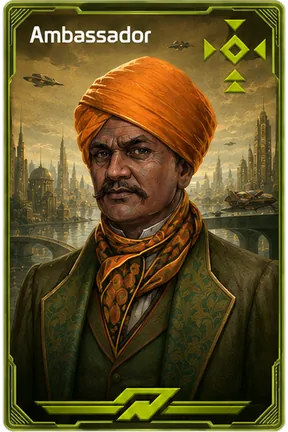
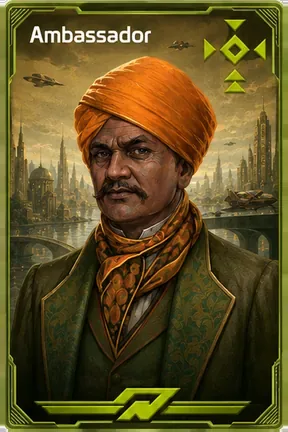
fix: sheet-cut damage on every edge, not just the right one
The background seam was chased three times and each pass only looked at the
RIGHT edge, because that is where it was first reported. A global sweep of all
four edges across every asset class found the same damage on axes nobody had
checked: Saturn backgrounds with an anomalous top or bottom ROW, all five card
faces with 1 px columns on both sides, and the web assets inheriting both.
Panels cut from a sheet slightly too large in every direction.

DISCRIMINATION WAS THE HARD PART, and the first attempt was wrong.

Flagging "edge much brighter than the interior" produced 29 hits, most of them
real artwork:
  - the UI sprites' edges measure EXACTLY 170 - the luma of magenta #FF00FF,
    the chroma key the Saturn pipeline requires
  - boxart.webp's left columns are the cream SEGA spine
  - a skyline background has a genuinely bright sky at the top

What separates damage from art is a sharp STEP against adjacent pixels, not
brightness against the interior. That dropped 29 candidates to 18 real ones,
and every excluded file is verifiably artwork.

THE SAME MISTAKE, A THIRD TIME

The run detector first walked inward while each pixel resembled its
PREDECESSOR. That reads plausibly and is wrong: a card edge goes 252, 146, 67,
so the run stops after one pixel and the repair sources its replacement from
146 - still damage. The cards came back reporting [286, 287] where they had
reported [287], because the repair had SPREAD the artifact.
[…]

Changed region(s): [[0.0, 0.0, 1.0, 1.0]]

diff --git a/scripts/qa/qa_edge_artifacts.py b/scripts/qa/qa_edge_artifacts.py
@@ -1,0 +1,185 @@
+#!/usr/bin/env python3
+"""
+qa_edge_artifacts.py - Global sweep for sheet-cut damage on EVERY edge.
+
+WHY THIS GATE EXISTS
+  The background seam was chased three times and each fix only looked at the
+  RIGHT edge, because that is where it was first reported. A global sweep of
+  all four edges across every asset class found the same damage on axes
+  nobody had checked:
+
+    every Saturn background has an anomalous edge ROW - B1/B2/B3 at the top,
+    B4/B5/B6/B7 at the bottom
+    all five card faces carry 1 px columns on both sides
+    web backgrounds and cards inherit the same
+
+  Same cause as the right-edge seam: panels cut from a sheet slightly too
+  large in every direction, not just horizontally.
+
+HOW IT DISCRIMINATES - this is the whole difficulty
+  Bright edges are not automatically artifacts. A first pass that flagged
+  "edge much brighter than the interior" produced 29 hits, most of them real
+  artwork:
+    - the UI sprites' edges measure EXACTLY 170, which is the luma of
+      magenta #FF00FF, the chroma key the Saturn pipeline requires
+    - boxart.webp's left columns are the cream SEGA spine
+    - a skyline background legitimately has a bright sky at the top
+
+  What separates damage from art is a SHARP STEP against the immediately
+  adjacent pixels, not brightness against the global interior. A slice of a
+  neighbouring panel meets its host at a discontinuity; sky, borders and
+  spines transition into what surrounds them. Measuring the step dropped 29
+  candidates to 18 genuine ones, and the excluded 11 are all verifiably
+  artwork.
+
+NEGATIVE CONTROL
+  --selftest paints a synthetic bright edge onto a clean asset and requires
+  detection, then verifies the magenta key and a smooth gradient are NOT
+  flagged. A sweep that flags everything is as useless as one that flags
+  nothing.
+"""
+
+import argparse
+import glob
+import os
+import sys
+
+import numpy as np
+from PIL import Image
+
+STEP = 60          # step against the adjacent pixel that means "different image"
+RUN = 6            # deepest edge run considered
+KEY_LUMA = 170.0   # mean of #FF00FF - the Saturn chroma key, never an artifact
+
+SATURN = ("examples/coup/assets/Official Art/coup_saturn_complete_asset_pack/"
+          "coup_saturn_complete_asset_pack/saturn_ready")
+
+GROUPS = {
+    "web/bg":     "web-staging/assets/bg/*",
+    "web/cards":  "web-staging/assets/cards/*",
+    "web/fx":     "web-staging/assets/fx/*",
+    "web/ui":     "web-staging/assets/ui/*",
+    "web/logo":   "web-staging/assets/logo/*",
+    "web/portraits": "web-staging/assets/portraits/*",
+    "sat/bg":     SATURN + "/backgrounds/*",
+    "sat/cards":  SATURN + "/cards/*",
+    "sat/ui":     SATURN + "/ui/*",
+}
+
+
+def is_key(v):
+    return abs(v - KEY_LUMA) < 3.0
+
+
+def edge_run(vals, n, side):
+    """Contiguous edge run and the step to the first pixel past it.
+
+    The run continues while each pixel is ANOMALOUS AGAINST THE INTERIOR,
+    not while it resembles its predecessor. The predecessor test looks
+    reasonable and is wrong: a card's edge reads 252 then 146 then 67, so it
+    stops after ONE pixel, and a repair sourced from the next pixel copies
+    146 - still damage. That mistake was made twice, on the portraits and
+    again here, and both times the artifact was spread rather than removed.
+    """
+    interior = float(np.median(vals[RUN:-RUN])) if n > 2 * RUN         else float(np.median(vals))
+    idxs = []
+    rng = range(n - 1, n - 1 - RUN, -1) if side in "RB" else range(RUN)
+    for i in rng:
+        if abs(vals[i] - interior) <= STEP:
+            break
+        idxs.append(i)
+    if not idxs:
+        return None
+    nxt = min(idxs) - 1 if side in "RB" else max(idxs) + 1
+    if nxt < 0 or nxt >= n:
+        return None
+    mean = float(np.mean([vals[i] for i in idxs]))
+    step = abs(mean - float(vals[nxt]))
+    if step > STEP and not is_key(mean):
+        return (side, sorted(idxs), round(step))
+    return None
+
+
+def scan_image(a):
+    g = a.mean(axis=2)
+    h, w = g.shape
+    col, row = g.mean(axis=0), g.mean(axis=1)
+    out = []
+    for side, vals, n in (("R", col, w), ("L", col, w),
+                          ("B", row, h), ("T", row, h)):
+        r = edge_run(vals, n, side)
+        if r:
+            out.append(r)
+    return out
+
+
+def sweep():
+    findings = {}
+    for name, pat in GROUPS.items():
+        hits = []
+        for f in sorted(glob.glob(pat)):
+            if os.path.isdir(f):
+                continue
+            try:
+                im = Image.open(f).convert("RGB")
+            except Exception:
+                continue
+            e = scan_image(np.asarray(im).astype(float))
+            if e:
+                hits.append((os.path.basename(f), e))
+        findings[name] = hits
+    return findings
+
+
+def main():
+    ap = argparse.ArgumentParser()
+    ap.add_argument("--selftest", action="store_true")
+    args = ap.parse_args()
+
+    findings = sweep()
+    total = 0
+    for name, hits in findings.items():
+        print(f"  {name:16s} {'clean' if not hits else str(len(hits)) + ' file(s)'}")
+        for fn, e in hits:
+            print(f"      {fn:26s} {e}")
+            total += 1
+
+    if args.selftest:
+        print()
+        # Positive: a painted bright edge must be caught.
+        synth = np.full((64, 64, 3), 40.0)
+        synth[:, -1, :] = 240.0
+        got = scan_image(synth)
+        print(f"  control +: painted bright edge -> "
+              f"{'DETECTED' if got else 'MISSED'}")
+        # Negative 1: the magenta key must NOT be flagged.
+        keyed = np.full((64, 64, 3), 40.0)
+        keyed[:, -1, :] = [255, 0, 255]
+        k = scan_image(keyed)
+        print(f"  control -: magenta chroma key -> "
+              f"{'flagged (BAD)' if k else 'ignored (correct)'}")
+        # Negative 2: a smooth gradient must NOT be flagged.
+        grad = np.zeros((64, 64, 3))
+        for x in range(64):
+            grad[:, x, :] = 20 + x * 3
+        gr = scan_image(grad)
+        print(f"  control -: smooth gradient -> "
+              f"{'flagged (BAD)' if gr else 'ignored (correct)'}")
+        if not got or k or gr:
+            print()
+            print("GATE EDGE ARTIFACTS: RED - the discriminator does not "
+                  "separate damage from artwork, so its verdict means nothing")
+            return 1
+
+    print()
+    if total:
+        print(f"GATE EDGE ARTIFACTS: RED - {total} asset(s) carry a slice of "
+              f"a neighbouring panel")
+        return 1
+    print("GATE EDGE ARTIFACTS: GREEN - no asset carries sheet-cut damage on "
+          "any edge")
+    return 0
+
+
+if __name__ == "__main__":
+    sys.exit(main())

diff --git a/scripts/repair_edge_artifacts.py b/scripts/repair_edge_artifacts.py
@@ -1,0 +1,94 @@
+#!/usr/bin/env python3
+"""
+repair_edge_artifacts.py - Remove sheet-cut damage from an asset's edges.
+
+Deliberately imports the DETECTOR from scripts/qa/qa_edge_artifacts.py rather
+than restating it. When repair and gate carry separate copies of the rule they
+drift, and the failure is silent: the repair "succeeds" while the gate still
+reports damage, or worse, the gate goes green over damage the repair only
+half-removed. That happened twice on the portraits.
+
+Each anomalous run is replaced with the first pixel PAST it - which the
+detector already computes, because a replacement taken from inside the run
+spreads the artifact instead of removing it.
+
+Usage:
+  python scripts/repair_edge_artifacts.py <glob> [<glob> ...]
+"""
+
+import os
+import sys
+
+import numpy as np
+from PIL import Image
+
+sys.path.insert(0, os.path.join(os.path.dirname(os.path.abspath(__file__)), "qa"))
+from qa_edge_artifacts import edge_run, RUN, STEP, is_key   # noqa: E402
+
+
+def _run_for(vals, n, side):
+    """The detector's run, plus the index to source the replacement from."""
+    r = edge_run(vals, n, side)
+    if r is None:
+        return None
+    _, idxs, _ = r
+    nxt = min(idxs) - 1 if side in "RB" else max(idxs) + 1
+    if nxt < 0 or nxt >= n:
+        return None
+    return idxs, nxt
+
+
+def repair(path):
+    im = Image.open(path).convert("RGB")
+    a = np.asarray(im).astype(np.uint8).copy()
+    fixed = []
+
+    # Columns first, then re-measure before doing rows: repairing a column
+    # changes every row's mean, so row detection must see the corrected image
+    # or it will chase a number the columns already moved.
+    for side in ("R", "L"):
+        g = a.astype(float).mean(axis=2)
+        got = _run_for(g.mean(axis=0), g.shape[1], side)
+        if got:
+            idxs, nxt = got
+            for c in idxs:
+                a[:, c, :] = a[:, nxt, :]
+            fixed.append((side, idxs))
+
+    for side in ("B", "T"):
+        g = a.astype(float).mean(axis=2)
+        got = _run_for(g.mean(axis=1), g.shape[0], side)
+        if got:
+            idxs, nxt = got
+            for r in idxs:
+                a[r, :, :] = a[nxt, :, :]
+            fixed.append((side, idxs))
+
+    if fixed:
+        kw = {"quality": 82, "method": 6} \
+            if os.path.splitext(path)[1].lower() == ".webp" else {}
+        Image.fromarray(a).save(path, **kw)
+    return fixed
+
+
+def main(argv):
+    import glob as _glob
+    if not argv:
+        print(__doc__)
+        return 2
+    touched = 0
+    for pat in argv:
+        for f in sorted(_glob.glob(pat)):
+            if os.path.isdir(f):
+                continue
+            fx = repair(f)
+            print(f"  {os.path.basename(f):26s} "
+                  f"{'clean' if not fx else fx}")
+            if fx:
+                touched += 1
+    print(f"  repaired {touched} asset(s)")
+    return 0
+
+
+if __name__ == "__main__":
+    sys.exit(main(sys.argv[1:]))
